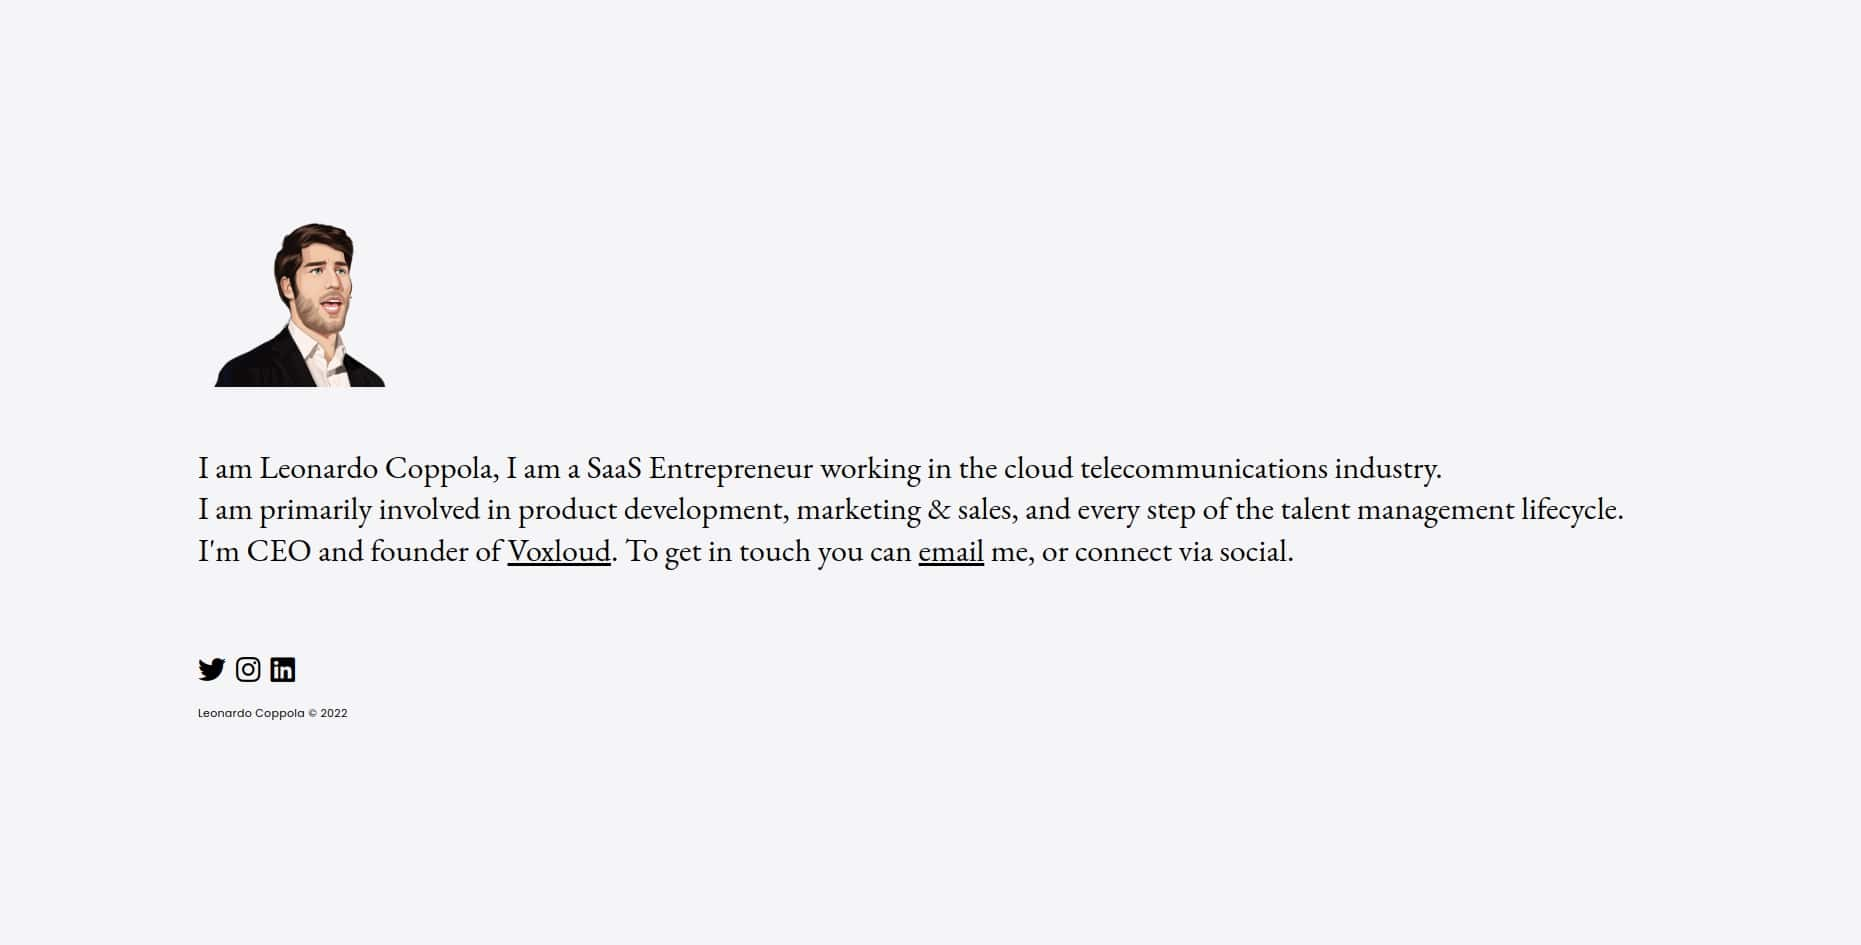
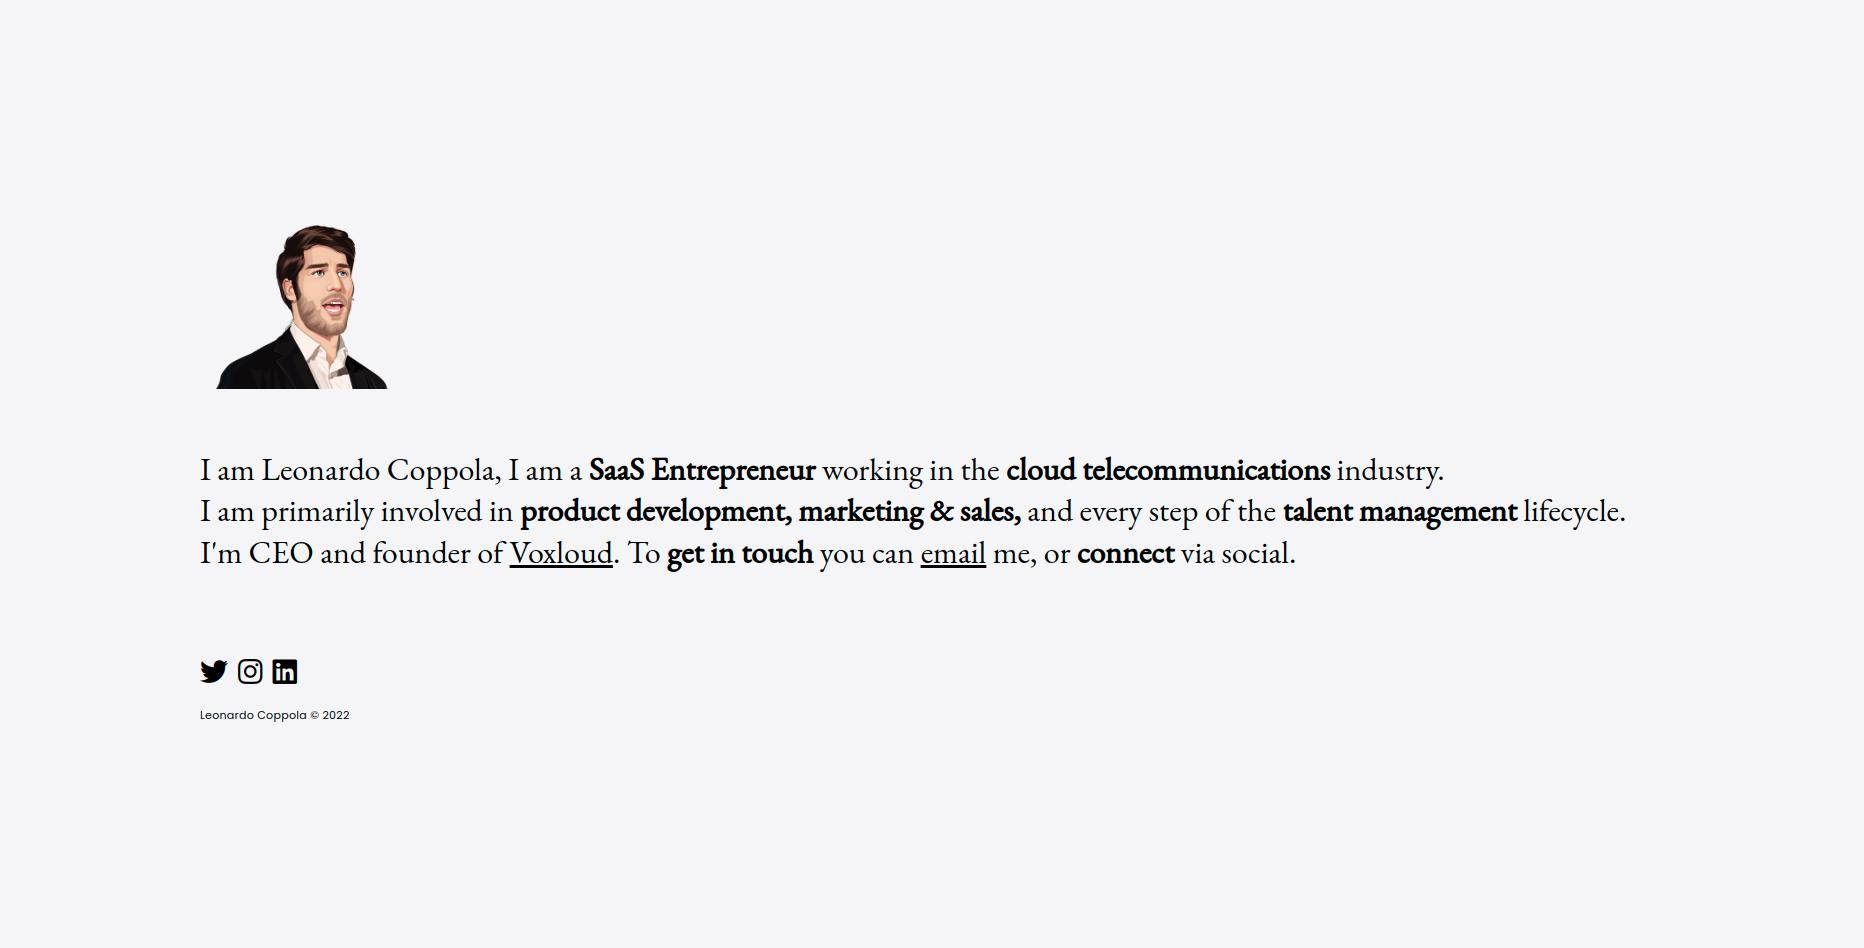
Add files via upload

Changed region(s): [[0.0935, 0.491, 0.8726, 0.6138], [0.1247, 0.2148, 0.187, 0.3989], [0.0935, 0.6751, 0.187, 0.7672]]

diff --git a/index.html b/index.html
@@ -13,27 +13,30 @@
     <meta property="og:site_name" content="I am Leonardo Coppola">
     <meta property="og:image" content="https://leocopp.github.io/assets/images/meta-png.jpg">
     <meta property="og:image:width" content="2560">
-     <meta property="og:image:height" content="1536">
-     <meta property="og:image:type" content="image/jpeg">
+    <meta property="og:image:height" content="1536">
+    <meta property="og:image:type" content="image/jpeg">
     <title>I am Leonardo Coppola</title>
     <script src="https://kit.fontawesome.com/13af292653.js" crossorigin="anonymous"></script>
     <link rel="icon" type="image/x-icon" href="./assets/images/favicon.ico">
-    <link rel="stylesheet" href="assets/css/style.css"/>
+    <link rel="stylesheet" href="assets/css/style.css" />
   </head>
   <body>
     <main class="main">
       <section class="section-personal-info">
         <div class="conatiner">
           <div class="signature">
-            <img src="./assets/images/profile-photo.png" alt="Leonardo Coppola" />
+            <img
+              src="./assets/images/profile-photo.png"
+              alt="Leonardo Coppola"
+            />
           </div>
           <div class="about-text">
             <p>
-                I am Leonardo Coppola, I am a SaaS Entrepreneur working in the cloud telecommunications industry. <br>
-                I am primarily involved in product development, marketing & sales, and every step of the talent management lifecycle.
+                I am Leonardo Coppola, I am a <strong>SaaS Entrepreneur</strong> working in the <strong>cloud telecommunications</strong> industry. <br>
+                I am primarily involved in <strong>product development, marketing & sales,</strong> and every step of the <strong>talent management</strong> lifecycle.
                 I'm CEO and founder of 
                 <a href="https://www.voxloud.com/it/en" target="_blank">Voxloud</a>.
-                To get in touch you can <a href="mailto:leo@voxloud.com">email</a> me, or connect via social.
+                To <strong>get in touch</strong> you can <a href="mailto:leo@voxloud.com">email</a> me, or <strong>connect</strong> via social.
             </p>
           </div>
           <div class="social-links">

diff --git a/assets/css/style.css b/assets/css/style.css
@@ -194,6 +194,10 @@ img {
   line-height: 1.3em;
 }
 
+.about-text p strong {
+  font-weight: bold;
+}
+
 .about-text p a {
   color: #000000;
   text-decoration: underline;
